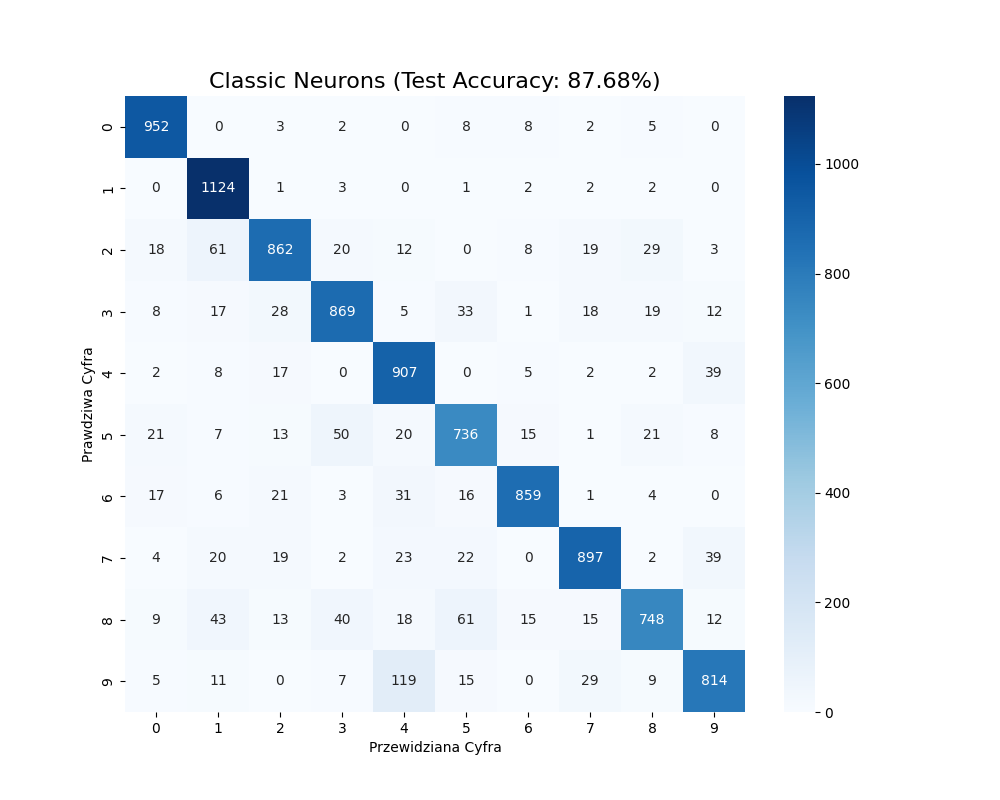
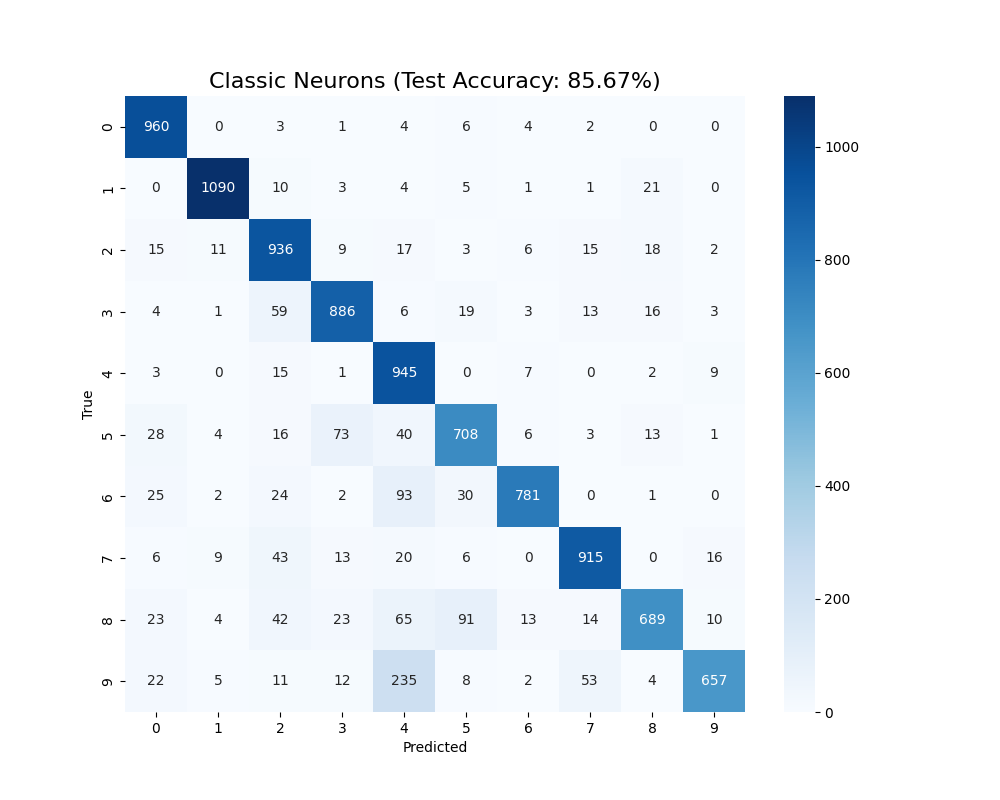
Angielske labele do confusion matrixów

diff --git a/classical_svm.py b/classical_svm.py
@@ -30,8 +30,8 @@ cm = confusion_matrix(y_test, y_pred)
 plt.figure(figsize=(10, 8))
 sns.heatmap(cm, annot=True, fmt='d', cmap='Blues')
 plt.title(f'Classic SVM (Test Accuracy: {accuracy*100:.2f}%)', fontsize=16)
-plt.xlabel('Przewidziana Klasa')
-plt.ylabel('Prawdziwa Klasa')
+plt.xlabel('Predicted')
+plt.ylabel('True')
 
-plt.savefig('wykresy_kwantowy\classical_svm_confusion_matrix.png')
+plt.savefig('wykresy_kwantowy/classical_svm_confusion_matrix.png')
 plt.show()

diff --git a/cnn.py b/cnn.py
@@ -142,7 +142,7 @@ plt.figure(figsize=(8, 6))
 cm = confusion_matrix(y_test, test_pred)
 sns.heatmap(cm, annot=True, fmt='d', cmap='Blues')
 plt.title(f'CNN (Test Accuracy: {test_acc*100:.2f}%)', fontsize=16)
-plt.xlabel('Przewidziana Klasa')
-plt.ylabel('Prawdziwa Klasa')
-# plt.savefig('wykresy_kwantowy/cnn_confusion_matrix.png')
+plt.xlabel('Predicted')
+plt.ylabel('True')
+plt.savefig('wykresy_kwantowy/cnn_confusion_matrix.png')
 plt.show()

diff --git a/classic_16x16_model.py b/classic_16x16_model.py
@@ -88,7 +88,7 @@ plt.figure(figsize=(8, 6))
 cm = confusion_matrix(y_test, y_pred)
 sns.heatmap(cm, annot=True, fmt='d', cmap='Blues')
 plt.title(f'Classic XNORNET (16x16) (Test Accuracy: {test_accuracy*100:.2f}%)', fontsize=16)
-plt.xlabel('Przewidziana Klasa')
-plt.ylabel('Prawdziwa Klasa')
+plt.xlabel('Predicted')
+plt.ylabel('True')
 plt.savefig('wykresy_kwantowy/classic_xnornet16_confusion_matrix.png')
 plt.show()

diff --git a/classic_28x28_model.py b/classic_28x28_model.py
@@ -88,7 +88,7 @@ plt.figure(figsize=(8, 6))
 cm = confusion_matrix(y_test, y_pred)
 sns.heatmap(cm, annot=True, fmt='d', cmap='Blues')
 plt.title(f'Classic XNORNET (28x28) (Test Accuracy: {test_accuracy*100:.2f}%)', fontsize=16)
-plt.xlabel('Przewidziana Klasa')
-plt.ylabel('Prawdziwa Klasa')
+plt.xlabel('Predicted')
+plt.ylabel('True')
 plt.savefig('wykresy_kwantowy/classic_xnornet28_confusion_matrix.png')
 plt.show()

diff --git a/classic_cnn.py b/classic_cnn.py
@@ -137,7 +137,7 @@ plt.figure(figsize=(8, 6))
 cm = confusion_matrix(y_test, y_pred)
 sns.heatmap(cm, annot=True, fmt='d', cmap='Blues')
 plt.title(f'Classic CNN (Test Accuracy: {test_accuracy*100:.2f}%)', fontsize=16)
-plt.xlabel('Przewidziana Klasa')
-plt.ylabel('Prawdziwa Klasa')
+plt.xlabel('Predicted')
+plt.ylabel('True')
 plt.savefig('wykresy_kwantowy/classic_cnn_confusion_matrix.png')
 plt.show()

diff --git a/classical_neurons.py b/classical_neurons.py
@@ -85,8 +85,8 @@ cm = confusion_matrix(y_true_list, y_pred_list)
 
 plt.figure(figsize=(10, 8))
 sns.heatmap(cm, annot=True, fmt='d', cmap='Blues')
-plt.xlabel('Przewidziana Cyfra')
-plt.ylabel('Prawdziwa Cyfra')
+plt.xlabel('Predicted')
+plt.ylabel('True')
 plt.title(f'Classic Neurons (Test Accuracy: {final_acc*100:.2f}%)', fontsize=16)
 
 plt.savefig('wykresy_kwantowy/classical_neurons_confusion.png')

diff --git a/model_training v2.py b/model_training v2.py
@@ -94,7 +94,7 @@ plt.figure(figsize=(8, 6))
 cm = confusion_matrix(y_test, test_pred)
 sns.heatmap(cm, annot=True, fmt='d', cmap='Blues')
 plt.title(f'XNORNET (28x28) (Test Accuracy: {test_acc*100:.2f}%)', fontsize=16)
-plt.xlabel('Przewidziana Klasa')
-plt.ylabel('Prawdziwa Klasa')
+plt.xlabel('Predicted')
+plt.ylabel('True')
 plt.savefig('wykresy_kwantowy/xnornet28_confusion_matrix.png')
 plt.show()

diff --git a/model_training.py b/model_training.py
@@ -94,7 +94,7 @@ plt.figure(figsize=(8, 6))
 cm = confusion_matrix(y_test, test_pred)
 sns.heatmap(cm, annot=True, fmt='d', cmap='Blues')
 plt.title(f'XNORNET (16x16) (Test Accuracy: {test_acc*100:.2f}%)', fontsize=16)
-plt.xlabel('Przewidziana Klasa')
-plt.ylabel('Prawdziwa Klasa')
+plt.xlabel('Predicted')
+plt.ylabel('True')
 plt.savefig('wykresy_kwantowy/xnornet16_confusion_matrix.png')
 plt.show()

diff --git a/quantum_svm.py b/quantum_svm.py
@@ -108,8 +108,8 @@ cm = confusion_matrix(y_test, y_pred)
 plt.figure(figsize=(10, 8))
 sns.heatmap(cm, annot=True, fmt='d', cmap='Blues')
 plt.title(f'SVM (Test Accuracy: {accuracy*100:.2f}%)', fontsize=16)
-plt.xlabel('Przewidziana Klasa')
-plt.ylabel('Prawdziwa Klasa')
+plt.xlabel('Predicted')
+plt.ylabel('True')
 plt.savefig('wykresy_kwantowy/svm_confusion_matrix.png')
 plt.show()
      

diff --git a/quantum_neurons.py b/quantum_neurons.py
@@ -90,9 +90,8 @@ cm = confusion_matrix(y_true, y_pred)
 
 plt.figure(figsize=(8, 6))
 sns.heatmap(cm, annot=True, fmt='d', cmap='Blues')
-plt.xlabel('Przewidziana Cyfra')
-plt.ylabel('Prawdziwa Cyfra')
-
+plt.xlabel('Predicted')
+plt.ylabel('True')
 plt.title(f'Neurons (Test Accuracy: {final_acc*100:.2f}%)', fontsize=16)
 plt.savefig('wykresy_kwantowy/neurons_confusion.png')
 plt.show()
